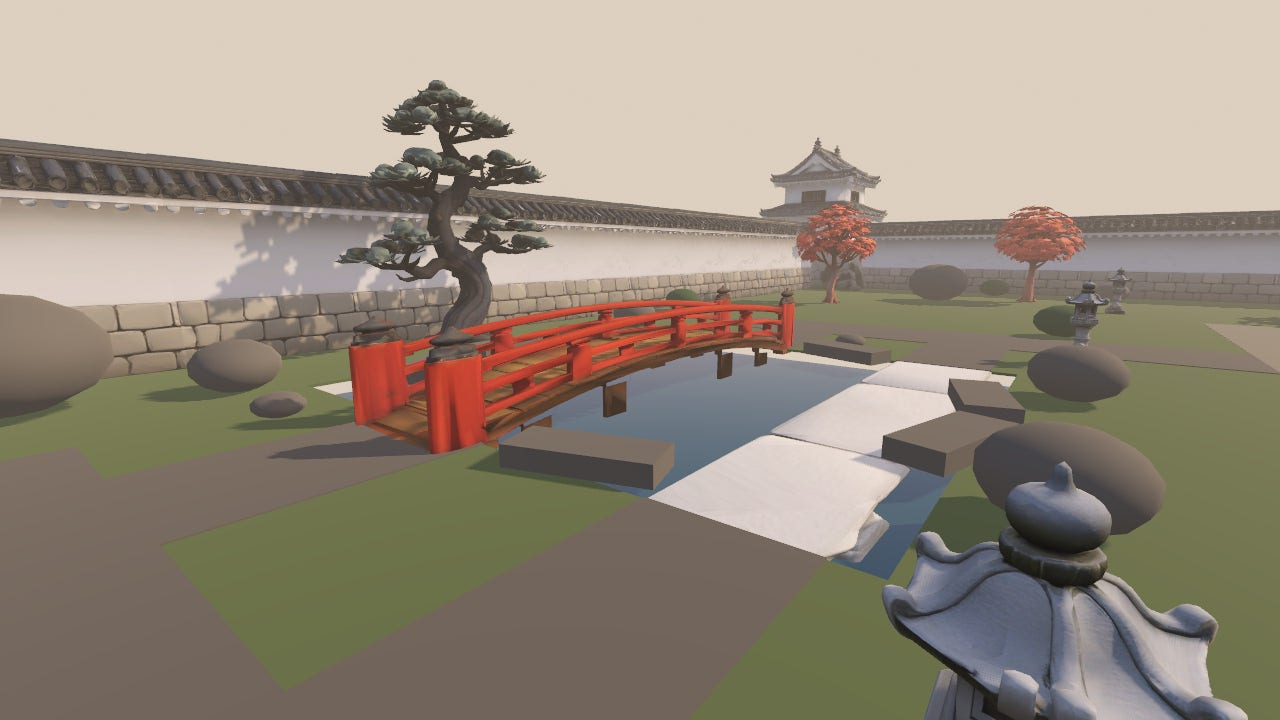
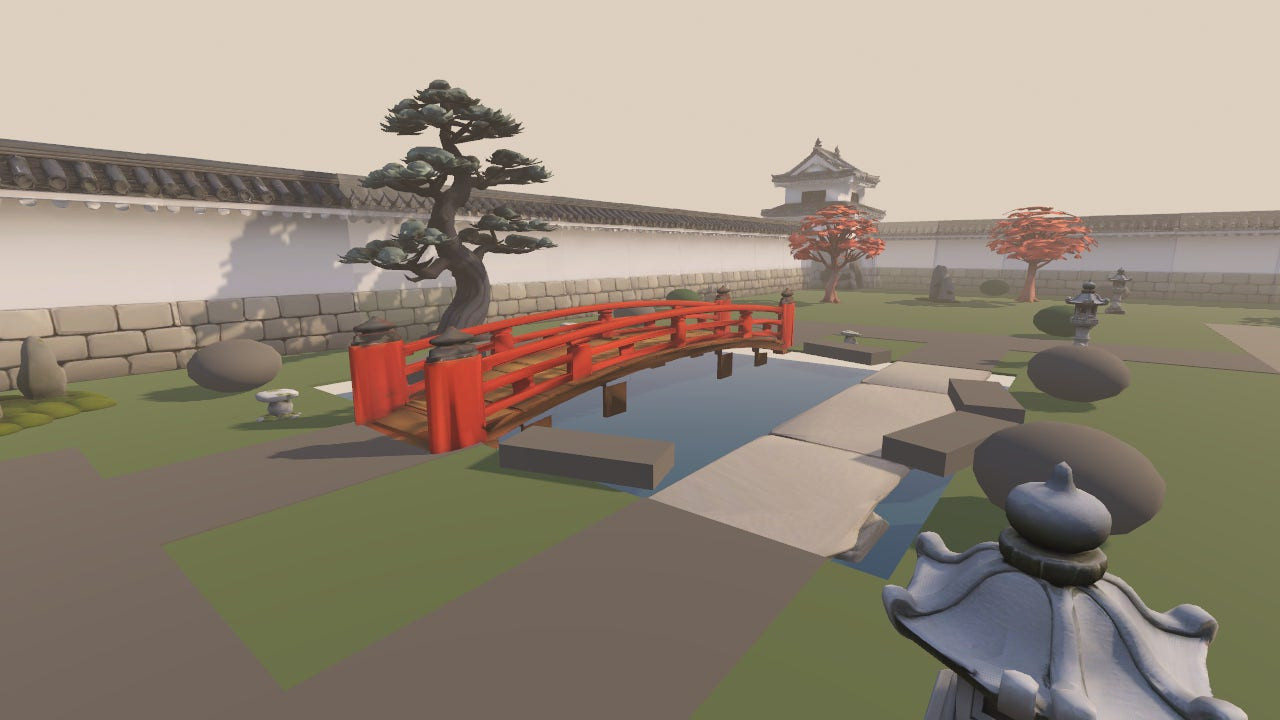
Courtyard LOD pack docs: deviations #26-#28, integration plan section 13 (budget, git cost per file, render cost before/after), credits, re-rendered screenshots incl. LOD overview and seam views

diff --git a/docs/courtyard/DEVIATIONS.md b/docs/courtyard/DEVIATIONS.md
@@ -37,7 +37,10 @@ The deviations below are about file locations, graybox detail and fitting the de
 | 22 | — (generator bug) | The 200 × 200 m outer grass plane (top y −0.055) covered the pond water (y −0.3), so the pond rendered as grass in every earlier build. Replaced by four boxes around the courtyard ground. | Found in the first windowed screenshots; the pond water is now visible. |
 | 23 | Trees (`PINE1–6`, `MAPLE1–3`, `SAKURA1–5`): 6 × 7 × 6 / 5 × 5 × 5 / 6 × 6 × 6 m footprints at (x, z), trunk cylinders r0.35 h3 (pine) and r0.3 h2.5 (maple, sakura) | BJORN's batch 3 meshes, one shared mesh per species (14 instances). Bill's (x, z) is used as the **trunk** position: the GLB origin is at the trunk base, so the canopy footprint is not centred on it. Uniform scale to Bill's height (`HEIGHT_FIT`), so canopies are smaller than his boxes: pine 6.25 × 7 × 3.58 (Z −40%), sakura 5.81 × 6 × 5.22 (−3% / −13%), maple 4.04 × 5 × 4.04 (−19%). Trunk-only cylinders per Kirk/BJORN: pine r0.45 h2.5 at local (−0.3, 1.25, 0.15), sakura r0.4 h2.3, maple r0.2 h2.0; canopies do not collide. Yaw overrides: **PINE3 88° (Bill 134°)**, **PINE6 312° (Bill 335°)**. Visibility range end 100 m (+10 m margin) for all trees. | At Bill's yaws the PINE3 canopy clipped 0.54 m into wall run WE11 and PINE6 0.29 m into turret TNE (`tools/courtyard/tree_fit.py`, now 0 clips at 0.25 m margin). Rotating was preferred to moving the trunks. Godot's auto-LOD saves only ~3% on these meshes (bias 0.05), so a visibility range is used instead; proper LODs requested from BJORN. Checked: trees are outside the combat square, ≥ 4.0 m from every spawn (nearest SAKURA5), all routes and the camera-clearance check pass. The pine root flare (~1 m) is wider than its r0.45 collider, so the player can step onto the visible roots. |
 | 24 | P5 / P6 bridge spurs: straight strips z −10 → 10 across the pond | Each strip is split into `<name>N` (z −10 → −5) and `<name>S` (5 → 10); nothing is drawn over the water. | With the real slab deck at y 0, P6's strip sat 2 cm above the deck and hid it; P5's strip floated over the water under the arch. Visual only; nav and colliders unchanged. |
-| 25 | Slab bridge `BRIDGE_SLAB` at (26, 0, 0), yaw 90, 11 × 0.4 × 2.0 m, "1 deck box + 2 rails" | BJORN's `bridge_stone_slab_deck2m.glb` (deck 2.0 m wide) rather than the main `bridge_stone_slab.glb` (2.667 m). Only the variant is copied (`sync_assets.py --apply bridge_stone_slab --variant deck2m`; `MODEL_VARIANT` makes the generator load it), so the main filename is never needed in the repo. `model_offset` y −0.394: deck top at y 0.000 (−0.005 … +0.002 along the walkable deck; the last few cm bevel to −0.05), supports bottom out at −0.394 (0.094 m under the water at −0.30). Rails are **invisible** box colliders at x ±1.075 from the centre, top 0.90 m above the deck. `AUTHORED_SIZE` 11 × 0.4 × 2.667 for the size check (the GLB's AABB includes the support blocks). | Kirk's instruction (8:38 PM). The model has no visible rails, so the rail colliders are invisible walls; BJORN asked for visible rails or a note. The deck ends overlap the banks by 0.5 m and sit under the path strips, so there is no lip or z-fight. Checked: nav crossing PASS (path low y 0.40 on the navmesh, 16.0 m, within 1 m of x 26 over the pond), rails 0.90 m above the deck at all 10 probe points, camera clearance PASS on the deck. The slab's albedo (mean RGB 150/150/139) reads near-white in sunlight next to the wall stone (screenshot 03). |
+| 25 | Slab bridge `BRIDGE_SLAB` at (26, 0, 0), yaw 90, 11 × 0.4 × 2.0 m, "1 deck box + 2 rails" | BJORN's `bridge_stone_slab_deck2m.glb` (deck 2.0 m wide) rather than the main `bridge_stone_slab.glb` (2.667 m). Only the variant is copied (`sync_assets.py --apply bridge_stone_slab --variant deck2m`; `MODEL_VARIANT` makes the generator load it), so the main filename is never needed in the repo. `model_offset` y −0.394: deck top at y 0.000 (−0.005 … +0.002 along the walkable deck; the last few cm bevel to −0.05), supports bottom out at −0.394 (0.094 m under the water at −0.30). Rails are **invisible** box colliders at x ±1.075 from the centre, top 0.90 m above the deck. `AUTHORED_SIZE` 11 × 0.4 × 2.667 for the size check (the GLB's AABB includes the support blocks). | Kirk's instruction (8:38 PM). The model has no visible rails, so the rail colliders are invisible walls; BJORN asked for visible rails or a note. The deck ends overlap the banks by 0.5 m and sit under the path strips, so there is no lip or z-fight. Checked: nav crossing PASS (path low y 0.40 on the navmesh, 16.0 m, within 1 m of x 26 over the pond), rails 0.90 m above the deck at all 10 probe points, camera clearance PASS on the deck. The v1 slab albedo (mean RGB 150/150/139) read near-white in sunlight next to the wall stone; BJORN's albedo v2 (LOD pack, mean 112/108/95) replaces it, same mesh and fit (the `_v1` backups in his library are not copied). Rails stay invisible 0.9 m colliders, confirmed as Bill's design. |
+| 26 | Trees at node scale (1, 1, 1): pine 6 × 7 × 6, maple 5 × 5 × 5 (Bill's boxes); PINE3 yaw 134, PINE6 yaw 335 (batch 3 used 88 / 312, #23) | Per BJORN's LOD-pack handoff the model node is scaled non-uniformly: pine (1, 1, 1.3) → 6.25 × 7 × 4.66 m, maple (1.237, 1, 1.238) → 5 × 5 × 5 m (`MODEL_FIT` `scale_xyz`; the prefab's trunk collider is unchanged). With the deeper pine canopy PINE3 at yaw 88 clipped the east wall WE11 by 0.01 m and PINE6 at 312 clipped the NE turret TNE by 0.04 m, so the yaws were re-searched over 360° (`tree_fit.py`, eave-inclusive AABBs): **PINE3 92, PINE6 304**, the best clearances available, **0.10 m and 0.05 m** (batch 3 had ≥ 0.25 m). Positions unchanged. | Kirk's instruction (9:35 PM). `tree_fit.py`: 0 clips at 0.05 m margin. Check: all trees outside the 40 × 40 combat square, spawns / routes / camera clearance PASS. The small clearances are canopy-to-eave in the air (no collision, canopies don't collide); worth a windowed look at PINE3 / PINE6. |
+| 27 | No LODs in the blueprint; batch 2/3 used Godot's generated mesh LOD (walls `lod_bias` 0.3) and tree `visibility_range_end` 100 m (#21) | BJORN's hand-made LODs are wired as distance LODs: each prefab's Model holder has children LOD0…LODn with `visibility_range_begin/end`, **FADE_SELF** dithered crossfade, each level begins where the previous ends with margin = fade width (`courtyard_prop.gd` `model_lod_*`, `gen_graybox.MODEL_LODS`). Distances (camera to mesh AABB centre): **wall** lod1 20 m / lod2 45 m (fade 2 m); **turret** 30 / 60 m; **barracks** 30 / 55 m; **kura** 25 / 50 m; **trees** lod3k 25 m (fade 3 m). The wall `lod_bias` 0.3 and tree vis_end 100 m are removed (trees are now drawn at any distance). The tree lod3k files and `corner_turret_lod1` reuse LOD0's materials (same UVs; their embedded textures are discarded on import, `vram_textures.py`), so they add no textures to git or VRAM; the other LODs have rebaked textures/UVs and keep their own. Tree LOD size check is ±15% (others ±5%) because the pine lod3k canopy is 12% shallower in z than LOD0. | Kirk's instruction (9:35 PM): third-person camera (4.2 m arm), 80 m compound — LOD0 covers the combat area around the player, lod1 mid-compound, lod2 the far walls and long views. Check: every level on every instance, 1 shared mesh per level, contiguous ranges, AABB within tolerance and centre offset < 0.15 m. Mixed wall LODs: all three span x −2.000…2.000 at the same height; joint outline steps at LOD0/LOD1/LOD2 joints are no worse than LOD0/LOD0 (`wall_lod_seams.py`); no gap seen in screenshot 08. |
+| 28 | Rocks: `ROCKL1–4` 3 × 2 × 2.5 m, collider "box 2.6 × 1.8 × 2.1"; `ROCKS1–10` 0.8 × 0.4 × 0.6 m, collider "none" | BJORN batch 4 rocks, main and `_b` variant alternating over Bill's instances (`INSTANCE_VARIANT`: ROCKL2/4 and the even ROCKS use `_b`, each with its own prefab `<asset>_b.tscn`). Scales: `rock_formation_large` 1.0, `_b` 0.9; both clusters 0.9 (BJORN: 0.85–1.0). Collision is **one box per variant**, fitted to the model's vertices above y 0.3 m (the moss skirt below is walk-through), full model height — the small clusters get a box too (Bill had none). Size check tolerance per axis −25…+10% (large) and −40…+25% (clusters) (`SIZE_TOL`), since natural rock shapes don't fill Bill's box: large 2.78 × 1.98 × 2.70 (−7 / −1 / +8%), large_b 3.06 × 1.94 × 1.99 (+2 / −3 / −21%), cluster 0.60 × 0.43 × 0.57 (−25 / +9 / −4%), cluster_b 0.52 × 0.50 × 0.52 (−35 / +24 / −14%). Small clusters are culled beyond 45 m (+5 m margin); Bill's MultiMesh note for the small rocks is not used (10 instances, 2 meshes). `rock_medium` stays graybox (BJORN is regenerating it). | Kirk's instruction (9:35 PM: simple box/convex collision, low-poly only, keep the nav cull above 1.8 m). Check: nav cull unchanged (0 navmesh vertices above 2 m), every small cluster can be walked round (1.5 m ring, paths < 10 m, longest 5.6 m), all rocks outside the combat square, collider tops within 5% of the model height and footprints inside the model. |
 
 ## Fixed: rotation bug in the generator (affects the first graybox commit `ffcf394`)
 `gen_graybox.py` wrote the basis into the `Transform3D(...)` literal column by column, but

diff --git a/docs/courtyard/INTEGRATION_PLAN.md b/docs/courtyard/INTEGRATION_PLAN.md
@@ -382,3 +382,90 @@ on the ground with no floating or wall/turret clipping (01, 02, 04, 06 + close-u
 sakura and maples); no path strip over the pond; slab supports visible under the deck and the deck
 meets the path ends flush (03). The slab stone reads near-white in sunlight, paler than the wall
 stone. Maple trunks look slim; the pine root flare extends past its collider.
+
+## 13. BJORN LOD pack, slab albedo v2, tree scales and batch 4 rocks (Oct 30, 2026, ~10:30 PM EDT)
+Integrated from `/workspace/kengeki_assets/library/Courtyard/` (read only; HANDOFF "LOD pack + slab
+albedo" and batch 4 notes). Not integrated: `rock_medium` (BJORN is regenerating it; stays graybox)
+and `pond_edge_stones_2m`. Still to come from BJORN: rock_medium, pond stones, azalea, 16 m gate.
+
+**LODs (DEVIATIONS #27).** Tree `_lod3k` (all three species), `wall_segment_4m_lod1/2`,
+`corner_turret_lod1/2`, `barracks_nagaya_lod1/2`, `storehouse_kura_lod1/2`, wired as distance LODs
+with `visibility_range_begin/end` and a FADE_SELF dithered crossfade (margin = fade width):
+
+| Asset | LOD0 → lod1 | lod1 → lod2 | Fade | Tris LOD0 / lod1 / lod2 | lod1 textures |
+|---|---|---|---|---|---|
+| wall_segment_4m | 20 m | 45 m | 2 m | 13,134 / 5,000 / 404 | own (rebaked) |
+| corner_turret | 30 m | 60 m | 3 m | 12,000 / 5,400 / 1,997 | **LOD0's** |
+| barracks_nagaya | 30 m | 55 m | 3 m | 12,000 / 5,379 / 1,978 | own |
+| storehouse_kura | 25 m | 50 m | 3 m | 6,000 / 2,700 / 1,000 | own |
+| trees (lod3k) | 25 m | — | 3 m | 12,000 / 10,000 / 11,986 → 4,000 / 3,986 / 3,491 | **LOD0's** |
+
+Shared-material LODs are imported with `gltf/embedded_image_handling=0` (`vram_textures.py`), so
+only the GLB is committed. Mixed wall LODs tile: all three span exactly x −2.000…2.000 and the same
+height; joint outline steps LOD0|LOD1 and LOD0|LOD2 are no worse than LOD0|LOD0
+(`python3 tools/courtyard/wall_lod_seams.py`); no gap visible at the LOD0/LOD1 boundary in
+screenshot 08.
+
+**Slab albedo v2.** `bridge_stone_slab_deck2m.glb` re-synced (mean albedo 150/150/139 → 112/108/95);
+mesh, fit and the invisible 0.9 m rail colliders unchanged (Bill's design). `_v1` backups not copied.
+
+**Tree scales (DEVIATIONS #26).** Pine node scale (1, 1, 1.3), maple (1.237, 1, 1.238). PINE3 / PINE6
+yaws re-fitted to 92 / 304 (0.10 / 0.05 m clearance to WE11 / TNE eaves).
+
+**Rocks (DEVIATIONS #28).** `rock_formation_large` (+ `_b` at 0.9) and `rock_small_cluster`
+(+ `_b`, both at 0.9), alternating over Bill's instances, one fitted box collider each. Nav cull
+above 1.8 m unchanged.
+
+**Checks (headless, not visual/gameplay verification).** `check_courtyard.gd` PASS, 264 checks, 0
+FAIL (navmesh 426 polygons / 378 vertices, 0 above 2 m): LOD presence/ranges/fade/AABB per level,
+shared-material LODs use LOD0's material with no texture of their own, rock colliders, small-rock
+walk-around (longest path round one 5.6 m), combat area 0 hits, spawns/routes/camera clearance
+PASS. Gameplay tests 109 passed / 8 failed (same 8 pre-existing character/animation/sheathe
+failures as the base).
+
+**Budget** (`python3 tools/courtyard/asset_budget.py --files`):
+
+| | Before (after batch 3) | After LOD pack + rocks |
+|---|---|---|
+| Scene triangles at LOD0 (instanced) | 1,407,382 (160,120 unique) | 1,433,382 (170,120 unique LOD0) |
+| Triangles drawn from the combat centre (LOD selection, no frustum culling) | — | 443,062 |
+| Texture VRAM (BJORN assets, compressed) | 42.64 MB | 54.53 MB (+4.9 LOD textures, +7.0 rocks) |
+| Git cost (BJORN assets, GLB + extracted textures) | 67.98 MB | 100.57 MB |
+| Godot monitors, video / texture memory | 324.8 / 177.2 MB | 338.9 / 188.5 MB |
+
+Git cost per new file (GLB + its extracted textures): wall lod1 3.73 / lod2 0.91; turret lod1 2.77
+(GLB only, shared) / lod2 1.24; barracks lod1 4.05 / lod2 1.25; kura lod1 3.30 / lod2 1.08; pine
+lod3k 1.16, sakura lod3k 1.03, maple lod3k 0.95 (GLB only, shared); rock_formation_large 3.46,
+`_b` 5.15; rock_small_cluster 1.43, `_b` 1.35; slab v2 5.50 MB.
+
+**Render cost** (windowed llvmpipe, primitives include shadow passes):
+
+| View | Draw calls before → after | Primitives before → after |
+|---|---|---|
+| 01 overview from gate | 89 → 86 | 1,057,958 → 360,332 |
+| 02 combat centre, eye height | 58 → 56 | 859,532 → 284,929 |
+| 03 pond + arch bridge | 71 → 76 | 700,754 → 464,567 |
+| 04 wall / turret seam | 25 → 26 | 551,624 → 545,356 |
+| 05 gate interior | 15 → 18 | 306,138 → 331,138 |
+| 06 keep backdrop | 31 → 33 | 767,760 → 404,668 |
+| **Total** | **289 → 295** | **4,243,766 → 2,390,990 (−44%)** |
+
+LOD views, LOD pack vs LOD0 at every distance (`render_views.gd --no-lods`):
+
+| View | Draw calls | Primitives | LOD0 only: draw calls | LOD0 only: primitives |
+|---|---|---|---|---|
+| 07 LOD overview (30, 22, 46 → −8, 0, −28) | 118 | 566,876 | 127 | 2,623,370 |
+| 08 wall LOD seam (34.5, 1.8, 27 → 38.6, 3.2, −30) | 101 | 720,964 | 103 | 1,864,272 |
+| 09 long-range (85, 55, 95 → 0, 0, −8) | 83 | 234,573 | 95 | 1,572,000 |
+
+Draw calls rose slightly in 03/05/06 (the 14 rocks are now textured models instead of graybox, and
+instances inside a crossfade band draw two levels); primitives fell where walls and
+trees are beyond 20–25 m. Views 04 and 05 are close-ups, so they stay mostly at LOD0.
+
+**Screenshots** replaced (`docs/courtyard/screenshots/`, `/workspace/kengeki_shots/`); the previous
+set is in `/workspace/kengeki_shots/before_lodpack/`. New: `07_lod_overview`, `09_lod_far` and their
+`_tinted` versions (`--tint-lods`: LOD0 green, lod1 yellow, lod2 red) to show the LOD transitions,
+and `08_wall_lod_seam` (LOD0/LOD1 wall boundary). Seen in the screenshots: LOD bands as expected
+in the tinted views, no gap at the wall LOD boundary, slab less white, rocks seated on the ground
+(the grey spheres are graybox `rock_medium`). Crossfade quality and popping need a windowed,
+moving-camera look; a headless/llvmpipe still frame can't show them.
